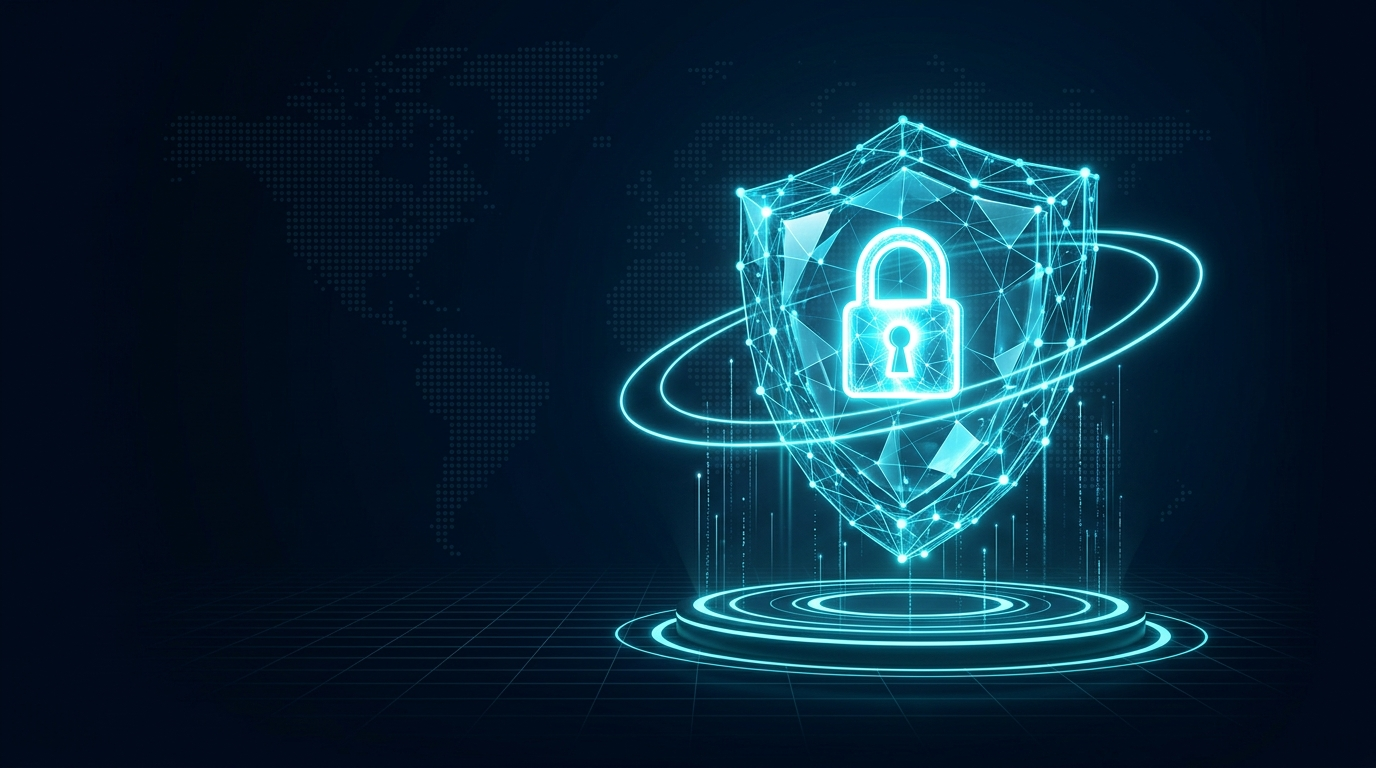
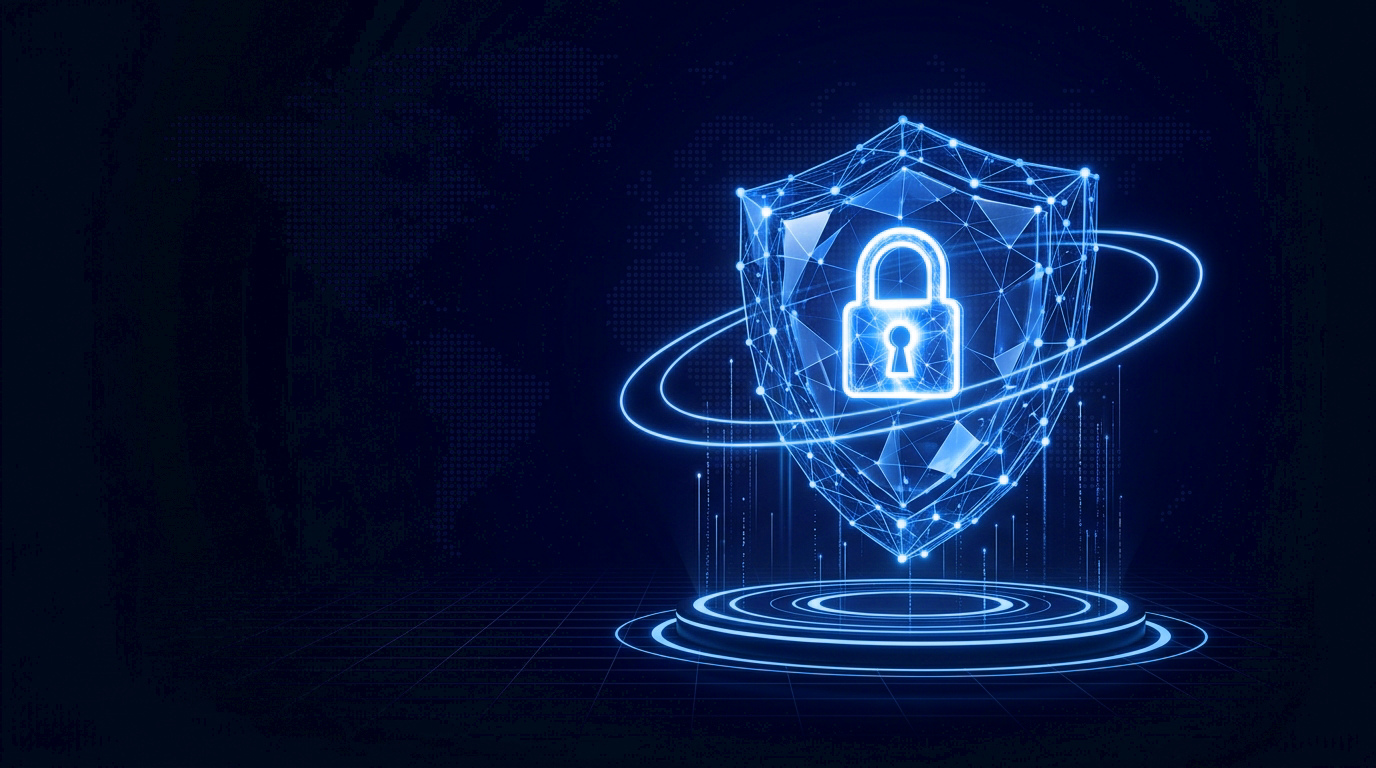
Update home hero image and site accents to vibrant electric cyber blue theme

Changed region(s): [[0.4375, 0.0938, 0.9062, 0.9375]]

diff --git a/src/styles/style.css b/src/styles/style.css
@@ -11,20 +11,20 @@
   --bg-card: rgba(6, 22, 43, 0.75);
   --bg-card-hover: rgba(8, 30, 58, 0.9);
 
-  --accent-cyan: #00BFFF;
-  --accent-cyan-bright: #00E5FF;
-  --accent-blue: #087DFF;
-  --accent-glow: rgba(0, 191, 255, 0.3);
-  --accent-glow-soft: rgba(0, 191, 255, 0.15);
+  --accent-cyan: #00A3FF;
+  --accent-cyan-bright: #38BDF8;
+  --accent-blue: #0077FF;
+  --accent-glow: rgba(0, 140, 255, 0.35);
+  --accent-glow-soft: rgba(0, 140, 255, 0.18);
 
   --text-main: #FFFFFF;
   --text-muted: #8E9EB5;
   --text-silver: #D1DCEB;
   --text-dim: #607289;
 
-  --border-subtle: rgba(0, 191, 255, 0.15);
-  --border-card: rgba(8, 125, 255, 0.22);
-  --border-hover: rgba(0, 191, 255, 0.55);
+  --border-subtle: rgba(0, 140, 255, 0.18);
+  --border-card: rgba(0, 119, 255, 0.22);
+  --border-hover: rgba(0, 163, 255, 0.55);
 
   --font-sans: 'Inter', -apple-system, BlinkMacSystemFont, 'Segoe UI', Roboto, Helvetica, Arial, sans-serif;
   --font-mono: 'JetBrains Mono', 'Fira Code', 'Courier New', monospace;
@@ -72,11 +72,11 @@ html {
   background: #020B19;
 }
 ::-webkit-scrollbar-thumb {
-  background: rgba(0, 191, 255, 0.35);
+  background: rgba(0, 140, 255, 0.35);
   border-radius: 3px;
 }
 ::-webkit-scrollbar-thumb:hover {
-  background: #00BFFF;
+  background: var(--accent-cyan);
 }
 
 body {
@@ -167,11 +167,11 @@ img, svg {
 
 .cyan-text {
   color: var(--accent-cyan);
-  background: linear-gradient(135deg, #00BFFF 0%, #00E5FF 55%, #38bdf8 100%);
+  background: linear-gradient(135deg, #0084FF 0%, #00B4FF 48%, #38BDF8 100%);
   -webkit-background-clip: text;
   -webkit-text-fill-color: transparent;
   display: inline-block;
-  filter: drop-shadow(0 0 20px rgba(0, 191, 255, 0.45));
+  filter: drop-shadow(0 0 22px rgba(0, 140, 255, 0.5));
 }
 
 /* --- Container & Sections --- */
@@ -316,7 +316,7 @@ img, svg {
 }
 
 .nav-link.active {
-  color: #00BFFF;
+  color: var(--accent-cyan);
   font-weight: 600;
 }
 
@@ -328,9 +328,9 @@ img, svg {
   transform: translateX(-50%);
   width: 20px;
   height: 2.5px;
-  background: #00BFFF;
+  background: var(--accent-cyan);
   border-radius: 2px;
-  box-shadow: 0 0 10px #00BFFF;
+  box-shadow: 0 0 12px var(--accent-cyan);
 }
 
 /* Header CTAs & Hamburger */
@@ -387,16 +387,16 @@ img, svg {
 }
 
 .btn-pill-primary {
-  background: linear-gradient(135deg, #00BFFF 0%, #087DFF 100%);
+  background: linear-gradient(135deg, #0099FF 0%, #0066FF 100%);
   color: #FFFFFF !important;
   font-weight: 600;
   border: 1px solid rgba(255, 255, 255, 0.2);
-  box-shadow: 0 4px 16px rgba(0, 191, 255, 0.4);
+  box-shadow: 0 4px 18px rgba(0, 119, 255, 0.45);
 }
 
 .btn-pill-primary:hover {
-  background: linear-gradient(135deg, #00D5FF 0%, #0088FF 100%);
-  box-shadow: 0 6px 24px rgba(0, 191, 255, 0.65);
+  background: linear-gradient(135deg, #00B4FF 0%, #0077FF 100%);
+  box-shadow: 0 6px 26px rgba(0, 140, 255, 0.65);
   transform: translateY(-2px);
   color: #FFFFFF !important;
 }
@@ -410,11 +410,11 @@ img, svg {
 }
 
 .btn-pill-secondary:hover {
-  background: rgba(0, 191, 255, 0.15);
-  border-color: #00BFFF;
-  color: #00BFFF;
+  background: var(--accent-glow-soft);
+  border-color: var(--accent-cyan);
+  color: var(--accent-cyan);
   transform: translateY(-2px);
-  box-shadow: 0 0 16px rgba(0, 191, 255, 0.35);
+  box-shadow: 0 0 16px var(--accent-glow);
 }
 
 /* --- Hero Section (Exact Match to Reference Template) --- */
@@ -454,8 +454,8 @@ img, svg {
   align-items: center;
   gap: 8px;
   padding: 6px 14px;
-  background: rgba(0, 191, 255, 0.08);
-  border: 1px solid rgba(0, 191, 255, 0.28);
+  background: rgba(0, 140, 255, 0.08);
+  border: 1px solid rgba(0, 140, 255, 0.28);
   border-radius: var(--radius-full);
   margin-bottom: 16px;
   backdrop-filter: blur(8px);
@@ -484,7 +484,7 @@ img, svg {
   font-weight: 700;
   text-transform: uppercase;
   letter-spacing: 0.14em;
-  color: #00BFFF;
+  color: var(--accent-cyan);
   margin-bottom: 8px;
 }
 
@@ -611,10 +611,11 @@ img, svg {
   position: relative;
   background-color: #020B19;
   background-image: 
+    radial-gradient(ellipse 65% 55% at 75% 50%, rgba(0, 102, 255, 0.22) 0%, rgba(2, 11, 25, 0) 70%),
     linear-gradient(90deg, #020B19 0%, rgba(2, 11, 25, 0.95) 34%, rgba(2, 11, 25, 0.55) 48%, rgba(2, 11, 25, 0.05) 66%, transparent 100%),
     url('/assets/images/hero-secure-protect-shield.jpg');
-  background-size: 100% 100%, auto 85%;
-  background-position: 0 0, calc(100% + 25px) center;
+  background-size: 100% 100%, 100% 100%, auto 85%;
+  background-position: 0 0, 0 0, calc(100% + 25px) center;
   background-repeat: no-repeat;
   padding: 80px 0 72px;
   min-height: 560px;
@@ -651,26 +652,26 @@ img, svg {
 }
 
 .hero-btn-main {
-  background: linear-gradient(135deg, #00BFFF 0%, #0088FF 100%) !important;
+  background: linear-gradient(135deg, #0099FF 0%, #0066FF 100%) !important;
   color: #FFFFFF !important;
   font-weight: 600 !important;
   padding: 12px 26px !important;
   font-size: 0.92rem !important;
   border: 1px solid rgba(255, 255, 255, 0.25) !important;
-  box-shadow: 0 4px 20px rgba(0, 191, 255, 0.45) !important;
+  box-shadow: 0 4px 20px rgba(0, 119, 255, 0.45) !important;
   border-radius: var(--radius-full) !important;
 }
 
 .hero-btn-main:hover {
-  background: linear-gradient(135deg, #00D5FF 0%, #0099FF 100%) !important;
-  box-shadow: 0 6px 28px rgba(0, 191, 255, 0.7) !important;
+  background: linear-gradient(135deg, #00B4FF 0%, #0077FF 100%) !important;
+  box-shadow: 0 6px 28px rgba(0, 140, 255, 0.7) !important;
   transform: translateY(-2px);
 }
 
 .hero-btn-secondary {
   background: rgba(3, 16, 36, 0.75) !important;
   color: #FFFFFF !important;
-  border: 1.5px solid rgba(0, 191, 255, 0.45) !important;
+  border: 1.5px solid rgba(0, 140, 255, 0.45) !important;
   padding: 12px 24px !important;
   font-size: 0.92rem !important;
   font-weight: 500 !important;
@@ -679,19 +680,19 @@ img, svg {
 }
 
 .hero-btn-secondary:hover {
-  background: rgba(0, 191, 255, 0.15) !important;
-  border-color: #00BFFF !important;
-  color: #00BFFF !important;
+  background: rgba(0, 140, 255, 0.15) !important;
+  border-color: #00A3FF !important;
+  color: #00A3FF !important;
   transform: translateY(-2px);
-  box-shadow: 0 0 18px rgba(0, 191, 255, 0.35) !important;
+  box-shadow: 0 0 18px rgba(0, 140, 255, 0.4) !important;
 }
 
 /* --- 5-Item Solutions Bar Section --- */
 .hero-solutions-bar-section {
   width: 100%;
   background: #020C1C;
-  border-top: 1px solid rgba(0, 191, 255, 0.18);
-  border-bottom: 1px solid rgba(0, 191, 255, 0.18);
+  border-top: 1px solid rgba(0, 140, 255, 0.2);
+  border-bottom: 1px solid rgba(0, 140, 255, 0.2);
   box-shadow: 0 10px 30px rgba(0, 0, 0, 0.55);
   position: relative;
   z-index: 10;
@@ -711,7 +712,7 @@ img, svg {
   text-align: center;
   padding: 34px 16px;
   text-decoration: none;
-  border-right: 1px solid rgba(0, 191, 255, 0.12);
+  border-right: 1px solid rgba(0, 140, 255, 0.14);
   transition: all var(--transition-base);
   position: relative;
   background: transparent;
@@ -722,7 +723,7 @@ img, svg {
 }
 
 .solution-bar-item:hover {
-  background: rgba(0, 191, 255, 0.05);
+  background: rgba(0, 140, 255, 0.06);
 }
 
 .solution-bar-icon {
@@ -731,7 +732,7 @@ img, svg {
   display: flex;
   align-items: center;
   justify-content: center;
-  color: #00BFFF;
+  color: #0099FF;
   margin-bottom: 14px;
   transition: transform var(--transition-fast), color var(--transition-fast), filter var(--transition-fast);
 }
@@ -739,13 +740,13 @@ img, svg {
 .solution-bar-icon svg {
   width: 38px;
   height: 38px;
-  filter: drop-shadow(0 0 10px rgba(0, 191, 255, 0.45));
+  filter: drop-shadow(0 0 10px rgba(0, 140, 255, 0.5));
 }
 
 .solution-bar-item:hover .solution-bar-icon {
   transform: translateY(-3px) scale(1.08);
-  color: #00E5FF;
-  filter: drop-shadow(0 0 16px rgba(0, 229, 255, 0.75));
+  color: #38BDF8;
+  filter: drop-shadow(0 0 16px rgba(0, 163, 255, 0.8));
 }
 
 .solution-bar-label {
@@ -801,17 +802,17 @@ img, svg {
   transform: translate(-50%, -50%);
   width: 34px;
   height: 3.5px;
-  background: #00BFFF;
+  background: var(--accent-cyan);
   border-radius: 3px;
-  box-shadow: 0 0 12px #00BFFF, 0 0 20px rgba(0, 191, 255, 0.8);
+  box-shadow: 0 0 12px var(--accent-cyan), 0 0 20px var(--accent-glow);
 }
 
 /* Clean Horizontal Divider Line (Matching Reference Template) */
 .hero-stats-divider {
   width: 100%;
   height: 1px;
-  background: linear-gradient(90deg, rgba(0, 191, 255, 0.15) 0%, rgba(0, 229, 255, 0.5) 45%, rgba(0, 191, 255, 0.4) 75%, rgba(0, 191, 255, 0.15) 100%);
-  box-shadow: 0 0 10px rgba(0, 191, 255, 0.35);
+  background: linear-gradient(90deg, rgba(0, 140, 255, 0.15) 0%, rgba(0, 163, 255, 0.5) 45%, rgba(0, 140, 255, 0.4) 75%, rgba(0, 140, 255, 0.15) 100%);
+  box-shadow: 0 0 10px rgba(0, 140, 255, 0.35);
   margin-top: 0;
   position: relative;
   z-index: 5;
@@ -821,8 +822,8 @@ img, svg {
 .stats-strip {
   background: #020B19;
   background-image: 
-    radial-gradient(ellipse at 85% 50%, rgba(0, 191, 255, 0.08) 0%, transparent 60%),
-    radial-gradient(circle at 12% 50%, rgba(8, 125, 255, 0.08) 0%, transparent 50%);
+    radial-gradient(ellipse at 85% 50%, rgba(0, 140, 255, 0.08) 0%, transparent 60%),
+    radial-gradient(circle at 12% 50%, rgba(0, 102, 255, 0.08) 0%, transparent 50%);
   border-bottom: 1px solid var(--border-subtle);
   padding: 18px 0 22px;
   position: relative;
@@ -855,10 +856,10 @@ img, svg {
   display: block;
   width: 48px;
   height: 3px;
-  background: #00BFFF;
+  background: var(--accent-cyan);
   border-radius: 2px;
   margin-bottom: 8px;
-  box-shadow: 0 0 12px #00BFFF, 0 0 22px rgba(0, 191, 255, 0.85);
+  box-shadow: 0 0 12px var(--accent-cyan), 0 0 22px var(--accent-glow);
 }
 
 .stats-intro-title {
@@ -1691,8 +1692,8 @@ img, svg {
   .hero-home-section {
     padding: 64px 0 52px;
     min-height: 480px;
-    background-size: 100% 100%, auto 85%;
-    background-position: 0 0, calc(100% + 35px) center;
+    background-size: 100% 100%, 100% 100%, auto 85%;
+    background-position: 0 0, 0 0, calc(100% + 35px) center;
   }
   .hero-solutions-bar {
     grid-template-columns: repeat(5, 1fr);
